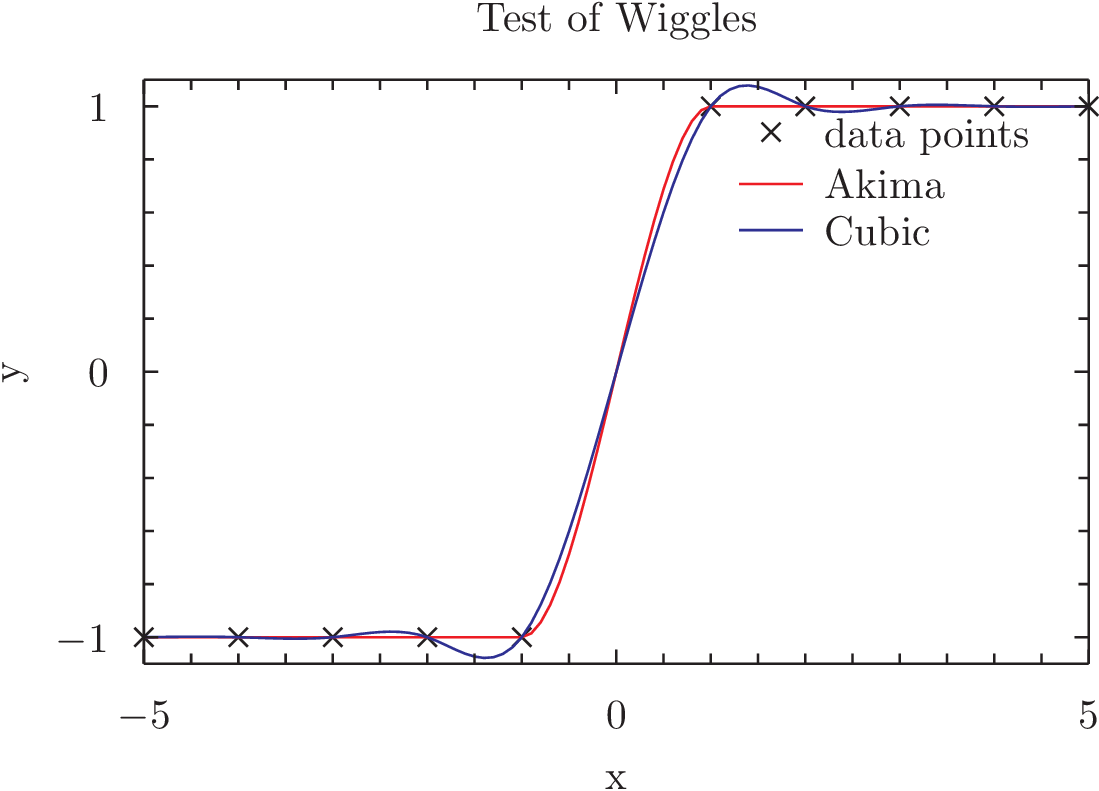
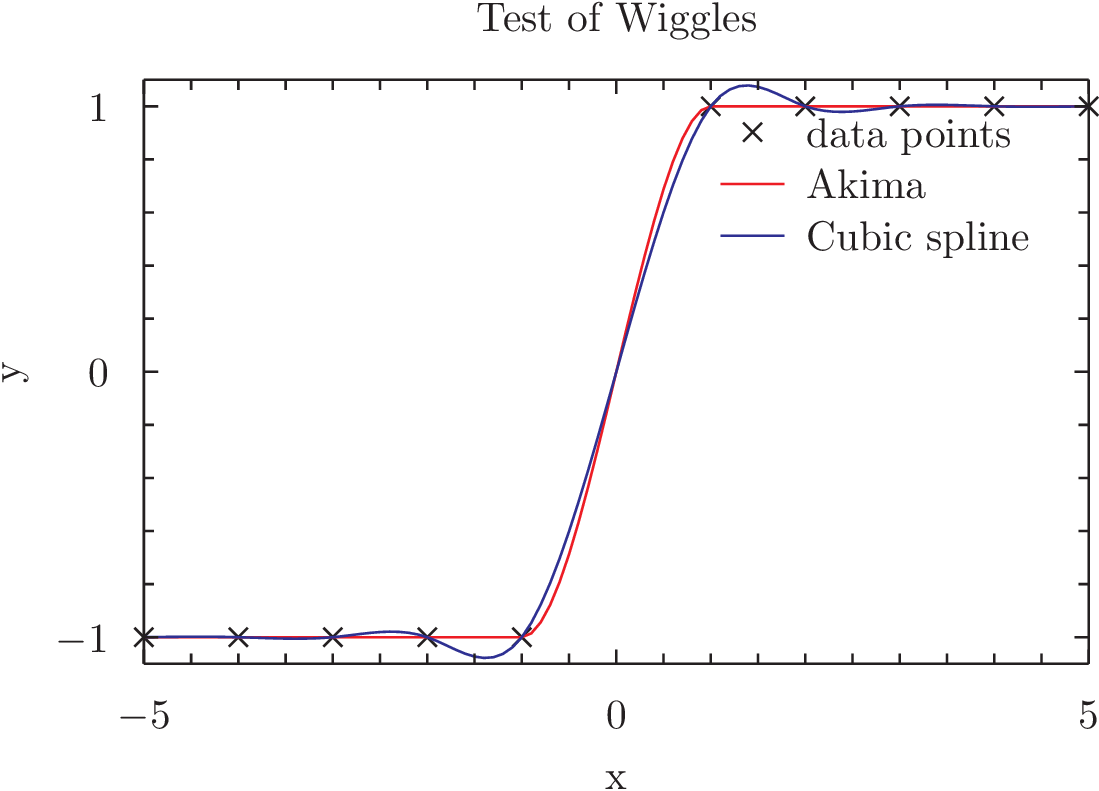
Updated describtion

Changed region(s): [[0.6497, 0.1517, 0.9281, 0.3338], [0.6806, 0.1517, 0.7116, 0.182]]

diff --git a/exam/Wiggle/main.cs b/exam/Wiggle/main.cs
@@ -5,14 +5,17 @@ using System.IO;
 
 class main{
 	static void Main(){
-		////////////////////////////////////////////////////
+		/////////////////////////////////////////////////
 		// Test for wiggles for cubic spline and Akima //
-		////////////////////////////////////////////////////
+		/////////////////////////////////////////////////
+
+		//Data points 
 		double[] x = {-5,-4,-3,-2,-1,1,2,3,4,5}; 
 		double[] y = {-1,-1,-1,-1,-1,1,1,1,1,1};
 		int np = x.Length;
+
 		// Describtion of what is done to wtitten out in file
-		WriteLine("The Akima subspline and the cubic spline is used to interpolate the datapoints:");
+		WriteLine("The Akima sub-spline and the cubic spline are used to interpolate the data points:");
 		WriteLine(); 
 		WriteLine("x	y");
 		for(int i = 0; i<np; i++) 
